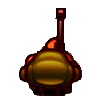
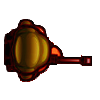
Game waits to start until 'x' players join
Much of the higher level functionality is commented out to ensure the
simple data transmission works

diff --git a/RIP.js b/RIP.js
@@ -51,6 +51,10 @@ var removePlayerPowerup = false;	//so that on each tick it doesn't change image 
 var POWERUP_ODDS = 500;				// "1/this" chance of powerup per tick
 
 
+var numPlayersHere = 1;
+var numPlayersToStart = 2;
+
+
 document.onkeydown = handleKeyDown;
 document.onkeyup = handleKeyUp;
 document.getElementById( "gameCanvas" ).onmousedown = function(event){
@@ -68,20 +72,129 @@ function init()
 	stage.addEventListener("stagemousedown", mouseClick);
 	stage.addEventListener("stagemouseup", mouseUnclick);
 	
-	var gameMode = confirm("OK = 2 player mode\n\nCancel = 4 player mode");
-	if(gameMode)
-	{
-		mode = "2player";
-	}
-	else
-	{
-		mode = "4player";
-	}
+
+	//TEMPORARILY COMMENTED OUT, FOR DEBUGGING
+	// var gameMode = confirm("OK = 2 player mode\n\nCancel = 4 player mode");
+	// if(gameMode)
+	// {
+	// 	mode = "2player";
+	// 	numPlayersToStart = 2;
+	// }
+	// else
+	// {
+	// 	mode = "4player";
+	// 	numPlayersToStart = 4;
+	// }
+
+//Hard code for debugging
+	player = new Player();
+	numPlayersToStart = 4;
+	console.log("numEnemies = " + enemyList.length);
+//End hard code
+
+
+
 	startLobby();
 	
-	socket = io.connect("http://localhost:5000");	// connect the socket to the localhost at port 8080
+	socket = io.connect("http://localhost:5000");	// connect to the server 
 }
 
+function tick(event)
+{ // this function called many times per minute, more frequent when tab is active in browser
+
+	if(!gameActive)
+	{ // conditional is true when players are in the lobby
+
+		// could request exact number from server, but probably costly
+		// lobbyText.text = "Waiting for " + numPlayersToStart + " total players"; 
+		
+		
+
+		// a new player joined the room
+		socket.on('player_joined', function(data)
+		{
+			// create the new enemy	
+			// TODO: pass parameters to enemy upon creation
+			// var newEnemy = Enemy(data.player_color);
+			numPlayersHere = data.player_count;
+			var diff = numPlayersToStart - numPlayersHere;
+			lobbyText.text = "Waiting for " + diff + " more players. " 
+															+ numPlayersHere + " are connected...";
+
+			// enemyList.push(newEnemy);
+
+			if (numPlayersHere == numPlayersToStart)
+			{	// if there is enough members to start the game
+				console.log("enough to start!");
+				gameActive = true;
+				stage.removeChild(lobbyText);
+				createTexts(numPlayersToStart);
+			}
+			stage.update();
+		});
+
+
+		// if(mode === "2player")// && playerNumber === 2)
+		// {
+		// 	gameActive = true;
+		// 	stage.removeChild(lobbyText);
+		// 	initialize2player();
+		// }
+			
+		// else if(mode === "4player")// && playerNumber === 4)
+		// {
+		// 	gameActive = true;
+		// 	stage.removeChild(lobbyText);
+		// 	initialize4player();
+		// }
+		
+		stage.update();
+	}
+	else
+	{ // this block is executed for every tick() function call once the game has started
+		movePlayer();
+		rotatePlayer();
+		// if(mousePressed)
+		// 	playerShoot();
+		// moveBullets();
+		// determinePowerup();
+		// moveEnemies();
+		// checkEnemyBulletCollision();
+		// checkPowerupCollision();
+		// updateHealthTexts();
+		stage.update();
+
+
+		var currTime = new Date().getTime();
+	
+		// emit all information about this client's player to server
+		// also send a precise timestamp to validate synchronization
+		socket.emit('message_to_server', {timestamp: currTime, health: player.health, 
+										rotation: player.image.rotation, x: player.image.x, y: player.image.y }); 
+
+
+
+		// TODO: emit bullet data to server
+
+
+		socket.on('message_to_client', function(data)
+		{
+			// console.log("server sent: " + data);
+
+		});
+
+		socket.on('disconnect', function()  
+		{
+   
+    });
+	}
+	
+}
+
+function moveEnemies()
+{
+
+}
 function startLobby()
 { // start lobby for initial players waiting for others
 	lobbyText = new createjs.Text("Waiting for players...1 connected...", "bold 34px Comic Sans", "#ffffff");
@@ -112,64 +225,6 @@ function initialize4player()
 	stage.update();
 }
 
-function tick(event)
-{ // this function called many times per minute, depending on if the browser tab is active
-	if(!gameActive)
-	{ // conditional true when players are in the lobby
-		var playerNumber = 0;
-		socket.on('player_count', function(data){	// ask server for number of players
-			playerNumber = data.player_count;
-			console.log('client playernumber = ' + playerNumber);
-		});
-
-		lobbyText.text = "Waiting for players..." + playerNumber + " connected...";
-		if(mode === "2player")// && playerNumber === 2)
-		{
-			gameActive = true;
-			stage.removeChild(lobbyText);
-			initialize2player();
-		}
-			
-		else if(mode === "4player")// && playerNumber === 4)
-		{
-			gameActive = true;
-			stage.removeChild(lobbyText);
-			initialize4player();
-		}
-		
-		stage.update();
-	}
-	else
-	{ // this block is executed for every tick() function call once the game has started
-		movePlayer();
-		rotatePlayer();
-		if(mousePressed)
-			playerShoot();
-		moveBullets();
-		determinePowerup();
-		moveEnemies();
-		checkEnemyBulletCollision();
-		checkPowerupCollision();
-		updateHealthTexts();
-		stage.update();
-
-
-		var currTime = new Date().getTime();
-	
-		// emit all information about player (from Player()) also include a timestamp w/ millisecond precision
-		socket.emit('message_to_server', {timestamp: currTime, ID: player.ID,	x: player.image.x, y: player.image.y,
-																			rotation: player.image.rotation }); 
-
-		// TODO: emit bullet data to server
-
-
-		socket.on('message_to_client', function(data){
-			console.log("server sent: " + data);
-		});
-	}
-	
-}
-
 function createTexts(numPlayers)
 { // show texts to indicate health for each enemy
 	playerText = new createjs.Text("Your Health: 100%", "bold 34px Comic Sans", "#ffffff");
@@ -197,7 +252,6 @@ function createTexts(numPlayers)
 
 function Player()
 {	// initialize a player
-	this.ID = -1; // will be assigned server-side
 	this.health = 100;
 	this.image = new createjs.Bitmap("images/players/player_1.png");
 	this.image.x = Math.random()*canvas.width;
@@ -211,6 +265,7 @@ function Player()
 function Enemy()
 { // initialize a placeholder enemy
 	this.health = 100;
+	// TODO: identify picture with a variable (ie red/blue/green)
 	this.image = new createjs.Bitmap("images/players/player_1.png");
 	this.image.x = Math.random()*canvas.width;
 	this.image.y = Math.random()*canvas.height;
@@ -220,6 +275,46 @@ function Enemy()
 	this.moveDirection = 0;
 	stage.addChild(this.image);
 }
+
+// TODO: Boil these many enemy functions down to only what is needed 
+
+function Enemy(health, x, y, rotation)
+{ // initialize a parameter-specified enemy client-side
+	this.health = health;
+	// TODO: identify picture with a variable (ie red/blue/green)
+	this.image = new createjs.Bitmap("images/players/player_1.png");
+	this.image.x = x;
+	this.image.y = y;
+	//set registration points to center of image
+	this.image.regX = 50;
+	this.image.regY = 50;
+	this.moveDirection = 0;
+	this.image.rotation = rotation;
+	stage.addChild(this.image);
+}
+
+function Enemy(color)
+{
+	this.health = 100;
+	// TODO: identify picture with a variable (ie red/blue/green)
+	if (color === "red")
+	{
+		this.image = new createjs.Bitmap("images/players/player_2.png");
+	}	
+	else
+	{
+		this.image = new createjs.Bitmap("images/players/player_1.png");
+	}
+	this.image.x = Math.random()*canvas.width;
+	this.image.y = Math.random()*canvas.height;
+	//set registration points to center of image
+	this.image.regX = 50;
+	this.image.regY = 50;
+	this.moveDirection = 0;
+	stage.addChild(this.image);
+
+}
+
 
 function Bullet()
 { // initialize a bullet, these will be stored in an array and passed to the server

diff --git a/pserver.js b/pserver.js
@@ -1,63 +1,78 @@
+// set up a server with express
 var express = require('express');
 var port = 5000;
+
 var app = express();    //create our app with express
 var server = require('http').createServer(app);
 var io = require('socket.io').listen(server);
+
+// server-side game variables
 var playerCount = 0;
-var playerID = 0;
+// var playerID = 0;
 var roomCount = 0;
 
-// TODO: add array of player IDs
+// an array of sockets to each current client/player
+// this should eliminate need for player ID
+var playerArray = [];
 
-io.sockets.on('connection', function(client) { // when client is connected
 
+// TODO: array of rooms, where each room is an array of 4 client sockets
+
+// received a 'connection' from a client
+io.sockets.on('connection', function(client) 
+{ 
+	playerArray.push(client);
 	playerCount++;
-	playerID++;
 
-	console.log('server playercount = ' + playerCount);
-	
-	io.sockets.emit('player_count', {player_count: playerCount}); // send player count to clients
+	console.log('server playercount incremented to:' + playerCount);
 
-	client.on('message_to_server', function(player){ // client sent player data to server
 		
-		if (player.ID === -1) {
-			player.ID = playerID;
-		}
+	// notify clients that a new player joined
+	var color = (playerCount % 2) ? "red" : "green"; // alternate between red/green players
+	io.sockets.emit('player_joined', {player_count: playerCount, player_color: color});
 
+	// client moved and sent player data to server
+	client.on('message_to_server', function(player)
+	{ 
 		// Below testing that data was transferred properly
-		// console.log("playerID = " + player.ID);	
-		// console.log("player timestamp: " + player.timestamp);
-		// console.log("player position: (" + player.x.toFixed(2) + ", " + player.y.toFixed(2) + ")");
-		// console.log("player rotation: " + player.rotation);
+		
+		// console.log("timestamp: " + player.timestamp);
+		// console.log("position: (" + player.x.toFixed(2) + ", " + player.y.toFixed(2) + ")");
+		// console.log("rotation: " + player.rotation);
+		
 
-		// Below sends message about each player to all other players
-		// this will be restricted later to avoid excessive data transfers
-		io.sockets.emit('message_to_client', player);
-
+		// send this player's data to all other players
+		// TODO: this will be restricted later to avoid excessive data transfers
+		// io.sockets.emit('message_to_client', player);
 	});
 
-	io.sockets.on('disconnect', function () {	// decrement player count upon disconnect
-		// NOT TESTED
+	// called when client disconnects. delete the socket.
+	client.on('disconnect', function ()
+	{	
 		playerCount--;
+		var i = playerArray.indexOf(client);
+		delete playerArray[i];
+		console.log('server playercount decremented to:' + playerCount);
+		// io.sockets.emit('player_left', )
 	});
-
 });
 
-app.configure(function() {
+app.configure(function() 
+{
 	app.use(express.static(__dirname)); //sets the static file location
 	app.use(express.logger('dev')); //logs every request to the console
 	app.use(express.cookieParser());
 	app.use(express.bodyParser()); // pull information from html in POST
 	app.use(express.methodOverride()); //simulate DELETE and PUT
-	app.use(express.session({
-		secret: 'pariscongobomie'
-	}));
+	app.use(express.session( {secret: 'pariscongobomie'} ));
 });
 
-app.get('/', function(req, res){ 
+app.get('/', function(req, res)
+{ 
   res.sendfile(__dirname + '/index.html');
 });
 
-server.listen(port, function() {
+server.listen(port, function() 
+{
 	console.log("App listening on port " + port);
 });
